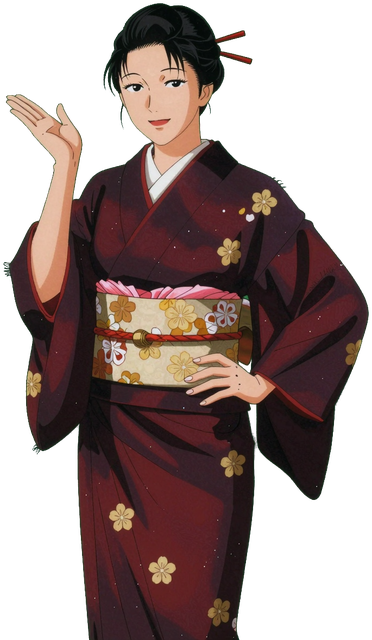
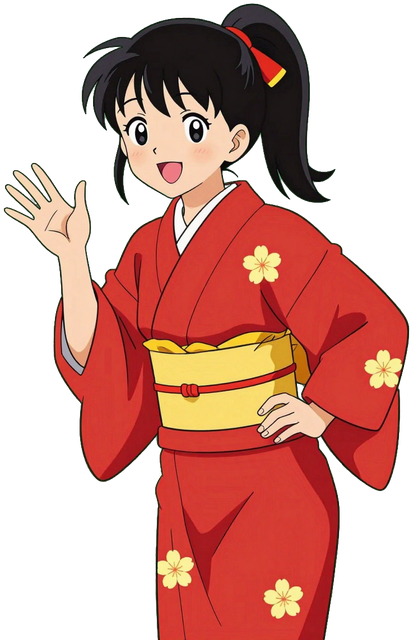
2.105.1 戦国思想録の版の名前を並・上・特上・極上に（NEW→新）、遊戯屋の人を可愛い看板娘に描き直し

diff --git a/card/index.html b/card/index.html
@@ -429,6 +429,7 @@ window.addEventListener('message',e=>{
  if(m.t==='wallet'&&typeof m.money==='number'&&Date.now()-walletAt>2000&&m.money!==SV.coin){SV.coin=m.money;if(!pk&&(screen==='title'||screen==='shop'))render();}
 });
 const RORD=['N','R','SR','SSR'];
+const RN={N:'並',R:'上',SR:'特上',SSR:'極上'}; // 版の表示名(中の名前は N/R/SR/SSR のまま)
 const DECK_SIZE=36,MAX_COPY=3,SAVE_KEY=EMBED?'sengoku_card_embed_v1':'sengoku_card_v1';
 let SV={deck:{},coin:0,pt:0,prints:{},lastLogin:'',starters:{}};
 let myDeck={},editFilter='all',editAll=false,editMsg='';
@@ -995,7 +996,7 @@ function render(){
 function sparks(n,col){let h='';for(let i=0;i<n;i++)h+=`<i class="sp" style="left:${Math.random()*100}%;top:${Math.random()*100}%;animation-delay:${(Math.random()*1.2).toFixed(2)}s;background:${col}"></i>`;return h;}
 function cardFace(c,r,isNew,auto){
  const col=IDEO[c.i].c;
- return `<div class="cf r-${r} t-${c.t}" style="--c:${col}"><div class="cfa"><span>${IDEO[c.i].n}</span>${artTag(c,r)}</div><div class="cft"><span class="cfc">${c.c}</span><b>${c.n}</b></div><div class="cfi">${TL[c.t]}${c.t==='u'?'  兵力'+c.p:''}</div><div class="cfd">${desc(c)}</div><span class="cfr rt-${r}">${r}</span>${isNew?'<span class="cfn">NEW</span>':''}${auto?`<span class="cfn" style="background:#6b6b6b">3枚所持→分解 ${GACHA.pt}+${auto}</span>`:''}<div class="foil"></div></div>`;
+ return `<div class="cf r-${r} t-${c.t}" style="--c:${col}"><div class="cfa"><span>${IDEO[c.i].n}</span>${artTag(c,r)}</div><div class="cft"><span class="cfc">${c.c}</span><b>${c.n}</b></div><div class="cfi">${TL[c.t]}${c.t==='u'?'  兵力'+c.p:''}</div><div class="cfd">${desc(c)}</div><span class="cfr rt-${r}">${RN[r]}</span>${isNew?'<span class="cfn">新</span>':''}${auto?`<span class="cfn" style="background:#6b6b6b">3枚所持→分解 ${GACHA.pt}+${auto}</span>`:''}<div class="foil"></div></div>`;
 }
 const stkT=t=>`translateY(${(t*16).toFixed(1)}px) scale(${(1-t*0.03).toFixed(3)})`;
 const sumCards=p=>p.all||p.cards;
@@ -1035,7 +1036,7 @@ function packHTML(){
  }else{
   const sc=sumCards(p);inner=`<div class="pk-title">開封結果</div><div class="sumgrid" ${sc.length>5?'style="max-width:540px"':''}>${sc.map((x,k)=>`<div class="smw" data-a="bigcard" data-id="${k}"><div class="smi">${cardFace(x.c,x.r,x.isNew,x.auto)}</div></div>`).join('')}</div><div class="pk-hint" style="margin:0 0 12px">札を押すと、大きな絵が見られます</div><div class="acts" style="justify-content:center"><button data-a="again" ${SV.coin>=p.pack.cost*(p.n||1)?'':'disabled'}>${(p.n||1)>1?'もう'+p.n+'連':'もう1包み'}(${p.pack.cost*(p.n||1)}${GACHA.coin})</button><button data-a="packEnd">閉じる</button></div>`;
  }
- const bl=p.stage==='summary'?sumCards(p):p.cards;if((p.stage==='summary'||p.stage==='pksum')&&p.big!=null&&bl[p.big]){const x=bl[p.big];inner+=`<div class="bigov" style="--c:${IDEO[x.c.i].c}" data-a="bigClose"><img src="${printImg(x.c,x.r)}" onerror="imgFb(this,'${baseImg(x.c)}')" alt=""><div class="bn">【${IDEO[x.c.i].n}】${x.c.n} <span class="rt-${x.r}">${x.r}</span></div><div class="bh">押すと閉じる</div></div>`;}
+ const bl=p.stage==='summary'?sumCards(p):p.cards;if((p.stage==='summary'||p.stage==='pksum')&&p.big!=null&&bl[p.big]){const x=bl[p.big];inner+=`<div class="bigov" style="--c:${IDEO[x.c.i].c}" data-a="bigClose"><img src="${printImg(x.c,x.r)}" onerror="imgFb(this,'${baseImg(x.c)}')" alt=""><div class="bn">【${IDEO[x.c.i].n}】${x.c.n} <span class="rt-${x.r}">${RN[x.r]}</span></div><div class="bh">押すと閉じる</div></div>`;}
  return `<div class="packov"><div class="pkin">${inner}</div></div>`;
 }
 let drag=null,sdrag=null;
@@ -1069,7 +1070,7 @@ function arriveFx(){
  const st=document.getElementById('stage');if(!st)return;
  sfxRare(x.r);
  if(x.r==='SR'||x.r==='SSR'){
-  st.insertAdjacentHTML('beforeend',`<div class="fx fx-${x.r}">${sparks(x.r==='SSR'?28:14,x.r==='SSR'?'#fff':'#ffe27a')}<div class="rtext">${x.r}!</div></div>`);
+  st.insertAdjacentHTML('beforeend',`<div class="fx fx-${x.r}">${sparks(x.r==='SSR'?28:14,x.r==='SSR'?'#fff':'#ffe27a')}<div class="rtext">${RN[x.r]}!</div></div>`);
   if(x.r==='SSR'){st.insertAdjacentHTML('beforeend','<div class="flash"></div>');try{navigator.vibrate&&navigator.vibrate([60,40,120]);}catch(e){}}
  }
 }
@@ -1081,7 +1082,7 @@ function printRows(mode){
   const n=printCount(c,r),k=printKey(c,r),col=IDEO[c.i].c,m=maxDismantle(c,r);let ctl='';
   if(mode==='coll'){const sel=Math.min(disSel[k]||0,m);ctl=m>0?`<div class="ctr"><button data-a="dsel" data-id="${k}~-1">−</button><span>${sel}</span><button data-a="dsel" data-id="${k}~1">＋</button><button data-a="dis" data-id="${k}" ${sel?'':'disabled'}>分解<br>+${sel*GACHA.dismantle[r]}</button></div>`:'';}
   else{const cost=GACHA.exchange[r];ctl=`<button data-a="trade" data-id="${k}" ${SV.pt>=cost&&n<MAX_COPY?'':'disabled'}>${cost}${GACHA.pt}<br>交換</button>`;}
-  return `<div class="er ${n?'':'unown'}" style="--c:${col};cursor:pointer" data-a="shopbig" data-id="${k}"><div class="th" style="--c:${col}"><span>${IDEO[c.i].n}</span><img src="${printImg(c,r)}" onerror="imgFb(this,'${baseImg(c)}')" alt=""></div><div class="tx"><b>${c.n}</b> <span class="rt rt-${r}">${r}</span> <span style="color:${col}">${IDEO[c.i].n}</span> ${TL[c.t]}<br><span class="dim">所持 ${n}${mode==='coll'&&n?` ・分解可 ${m}`:''}</span></div>${ctl}</div>`;
+  return `<div class="er ${n?'':'unown'}" style="--c:${col};cursor:pointer" data-a="shopbig" data-id="${k}"><div class="th" style="--c:${col}"><span>${IDEO[c.i].n}</span><img src="${printImg(c,r)}" onerror="imgFb(this,'${baseImg(c)}')" alt=""></div><div class="tx"><b>${c.n}</b> <span class="rt rt-${r}">${RN[r]}</span> <span style="color:${col}">${IDEO[c.i].n}</span> ${TL[c.t]}<br><span class="dim">所持 ${n}${mode==='coll'&&n?` ・分解可 ${m}`:''}</span></div>${ctl}</div>`;
  }).join('');
 }
 function shopHTML(){
@@ -1092,9 +1093,9 @@ function shopHTML(){
   body=STARTERS.filter(st=>!SV.starters[st.id]).map(st=>{const got=false;return `<div class="pcard" style="--c:#c0392b"><div class="pcl"><b>${st.name}</b><div class="dim" style="font-size:12px">${st.sub}<br>12種×3枚=36枚・無料(1回のみ)</div></div><button data-a="starter" data-id="${st.id}" ${got?'disabled':''}>${got?'受取済':'受け取る'}</button></div>`;}).join('')+(packs.length?packs.map(p=>{let tot=0,have=0;for(const c of CARDS.filter(c=>c.series===p.id))for(const r of(c.pr||[])){tot++;if(printCount(c,r)>0)have++;}
    return `<div class="pcard" style="--c:${p.color}"><div class="pcl"><b>${p.name}</b><div class="dim" style="font-size:12px">${p.era} ・ 収集 ${have}/${tot}</div></div><button data-a="buy" data-id="${p.id}" ${SV.coin>=p.cost?'':'disabled'}>${p.cost}${GACHA.coin}<br>開封</button><button data-a="buy10" data-id="${p.id}" ${SV.coin>=p.cost*10?'':'disabled'} style="margin-left:6px">${p.cost*10}${GACHA.coin}<br>10連</button></div>`;}).join(''):'<div class="dim" style="margin:14px 0">時代ごとの包みは準備中です</div>')
   +(DEMO?`<div class="pcard" style="--c:#888"><div class="pcl"><b>演出試し</b><div class="dim" style="font-size:12px">無料・保存されません</div></div><button data-a="buy" data-id="test">開封</button></div>`:'')
-  +`<div class="dim" style="font-size:12px;line-height:1.6;margin-top:8px">包みは時代ごとにあります。1包み${GACHA.cards}枚・最後の1枚は${GACHA.guarantee}以上確定<br>排出率: ${RORD.map(r=>`${r} ${GACHA.rates[r]}%`).join(' / ')}<br>${GACHA.coin}は対戦(勝利+${GACHA.reward.win}・敗北+${GACHA.reward.lose})と参上(+${GACHA.reward.login})で入手</div>`;
+  +`<div class="dim" style="font-size:12px;line-height:1.6;margin-top:8px">包みは時代ごとにあります。1包み${GACHA.cards}枚・最後の1枚は${RN[GACHA.guarantee]}以上確定<br>出る割合: ${RORD.map(r=>`${RN[r]} ${GACHA.rates[r]}%`).join(' / ')}<br>${GACHA.coin}は対戦(勝利+${GACHA.reward.win}・敗北+${GACHA.reward.lose})と参上(+${GACHA.reward.login})で入手</div>`;
  }else{
-  body=`<div class="dim" style="font-size:12px;margin:4px 0">${shopTab==='coll'?'同じ札は3枚まで持てて、超えた分は自動で分解して軍功になります。ここでは3枚以下の札も分解できます(各版1枚と陣立て使用分は残ります)':'軍功で好きな版と交換できます'}</div><div>${['all',...Object.keys(IDEO)].map(k=>`<span class="sc ${collFilter===k?'on':''}" data-a="cf" data-id="${k}">${k==='all'?'全思想':IDEO[k].n}</span>`).join('')}</div><div>${['all',...RORD].map(k=>`<span class="sc ${collRar===k?'on':''}" data-a="cr" data-id="${k}">${k==='all'?'全部':k}</span>`).join('')}</div>`+printRows(shopTab);
+  body=`<div class="dim" style="font-size:12px;margin:4px 0">${shopTab==='coll'?'同じ札は3枚まで持てて、超えた分は自動で分解して軍功になります。ここでは3枚以下の札も分解できます(各版1枚と陣立て使用分は残ります)':'軍功で好きな版と交換できます'}</div><div>${['all',...Object.keys(IDEO)].map(k=>`<span class="sc ${collFilter===k?'on':''}" data-a="cf" data-id="${k}">${k==='all'?'全思想':IDEO[k].n}</span>`).join('')}</div><div>${['all',...RORD].map(k=>`<span class="sc ${collRar===k?'on':''}" data-a="cr" data-id="${k}">${k==='all'?'全部':RN[k]}</span>`).join('')}</div>`+printRows(shopTab);
  }
  return `<div class="ver">v${VERSION}<button data-a="update">更新</button></div><div style="padding-top:40px">
  <div class="ehead"><b style="color:var(--gold)">札屋</b> <span class="coinb">${GACHA.coin} ${SV.coin}</span> <span class="coinb">${GACHA.pt} ${SV.pt}</span></div>
@@ -1105,7 +1106,7 @@ function shopHTML(){
 function shopBigHTML(){
  if(!shopBig)return '';const [cid,r]=shopBig.split('|'),c=cardById(cid);if(!c)return '';
  const n=printCount(c,r);
- return `<div class="bigov" style="--c:${IDEO[c.i].c}" data-a="shopbigClose"><img src="${printImg(c,r)}" onerror="imgFb(this,'${baseImg(c)}')" style="${n?'':'filter:brightness(.25) grayscale(.5)'}" alt=""><div class="bn">【${IDEO[c.i].n}】${c.n} <span class="rt-${r}">${r}</span></div><div class="bh">${n?`所持 ${n}枚`:'未所持'}　・　押すと閉じる</div></div>`;
+ return `<div class="bigov" style="--c:${IDEO[c.i].c}" data-a="shopbigClose"><img src="${printImg(c,r)}" onerror="imgFb(this,'${baseImg(c)}')" style="${n?'':'filter:brightness(.25) grayscale(.5)'}" alt=""><div class="bn">【${IDEO[c.i].n}】${c.n} <span class="rt-${r}">${RN[r]}</span></div><div class="bh">${n?`所持 ${n}枚`:'未所持'}　・　押すと閉じる</div></div>`;
 }
 const toastHTML=()=>`<div class="ov"><div class="mb" style="text-align:center">${loginMsg}<button data-a="toastClose">OK</button></div></div>`;
 
@@ -1149,8 +1150,8 @@ async function onClick(a,id){
   else if(a==='buy10'){const pack=gachaPacks().find(p=>p.id===id);const res=pack&&buyPack(pack,10);if(res){pk=mkPk(pack,res,10);shopMsg='';}else shopMsg=`${GACHA.coin}が足りません`;}
   else if(a==='buy'){const pack=id==='test'?TESTPACK:gachaPacks().find(p=>p.id===id);const res=pack&&(id==='test'?testPull():buyPack(pack));if(res){pk={pack,cards:res,stage:'tear',idx:0,flipped:false};shopMsg='';}else shopMsg=`${GACHA.coin}が足りません`;}
   else if(a==='dsel'){const i=id.lastIndexOf('~'),k=id.slice(0,i),dl=+id.slice(i+1),[c,r]=split(k);disSel[k]=Math.max(0,Math.min(maxDismantle(c,r),(disSel[k]||0)+dl));}
-  else if(a==='dis'){const [c,r]=split(id);const k=dismantle(c,r,disSel[id]||0);disSel[id]=0;shopMsg=k?`${c.n}(${r})を${k}枚分解して${GACHA.pt}+${k*GACHA.dismantle[r]}`:'';}
-  else if(a==='trade'){const [c,r]=split(id);const ex=exchange(c,r);shopMsg=ex==='max'?`${c.n}(${r})はすでに${MAX_COPY}枚持っています`:ex?`${c.n}(${r})と交換しました`:`${GACHA.pt}が足りません`;}
+  else if(a==='dis'){const [c,r]=split(id);const k=dismantle(c,r,disSel[id]||0);disSel[id]=0;shopMsg=k?`${c.n}(${RN[r]})を${k}枚分解して${GACHA.pt}+${k*GACHA.dismantle[r]}`:'';}
+  else if(a==='trade'){const [c,r]=split(id);const ex=exchange(c,r);shopMsg=ex==='max'?`${c.n}(${RN[r]})はすでに${MAX_COPY}枚持っています`:ex?`${c.n}(${RN[r]})と交換しました`:`${GACHA.pt}が足りません`;}
   render();return;
  }
  if(screen==='edit'){

diff --git a/js/main_town.js b/js/main_town.js
@@ -41,7 +41,7 @@ function townStage(P, hs) {
   if (townTab === 'soncho' && h.soncho) return ['', 'soncho.jpg', `<img class="who" src="${TA}soncho_p.png">` + say(h.soncho.me ? '村の衆' : `村長 ${h.soncho.head}`, h.soncho.me ? '村長様、今日もよろしくお願いいたします' : me.nomin && h.soncho.mine ? 'おう、今日も精を出してくれよ。田んぼは待ってくれんでな' : '見ねえ顔だな。働き手ならいつでも歓迎するぞ')]; // 2.56.1 村長
   if (townTab === 'mise') return ['', 'shop.jpg', `<img class="who" src="${TA}merchant_p.png">` + say('店の番頭', me.shoka && me.shoka.own ? '旦那様、本日も商いに励みます' : '自分の店を持つのは、商人の夢でございます')]; // 2.56.0 自分の店
   if (townTab === 'minato') return ['', 'minato.jpg', say('湊の船問屋', '海の向こうとの商いなら、船と腕のいい船乗りが要りますぜ')]; // 2.55.0 湊
-  if (townTab === 'yugi') return ['', 'shop.jpg', `<img class="who" src="${TA}yugi_p.png">` + say('遊戯屋の女将', 'いらっしゃいませ。戦国思想録の札なら、包みを開けるのも手合わせも、ここでどうぞ')]; // 2.102.0 遊戯屋（2.105.0 女将の絵を新しく）
+  if (townTab === 'yugi') return ['', 'shop.jpg', `<img class="who" src="${TA}yugi_p.png">` + say('遊戯屋の看板娘', 'いらっしゃいませー！戦国思想録の札、包みを開けるのも手合わせも、ここでどうぞ♪')]; // 2.102.0 遊戯屋（2.105.1 可愛い看板娘の絵に）
   if (townTab === 'gamble') return ['', '../gamble/den.jpg', `<img class="who" src="${TA}boss4.png">` + say('賭場の胴元', 'おう、遊んでいくかい。運も腕のうちだぜ')];
   if (townTab === 'talk') { // 2.13.1 茶屋：大きな町には娘がいる
     if (mu) return ['', 'chaya.jpg', `<img class="who" src="${TA}${mu.img}.png">` + say(`${mu.name}　<span class="heart">${'♥'.repeat(mu.wife ? 5 : mu.st)}${'♡'.repeat(mu.wife ? 0 : 4 - mu.st)}</span>`, (G.muSay && G.muSay[0] === mu.id && performance.now() - G.muSay[2] < 6000) ? G.muSay[1] : mu.line)];

diff --git a/js/config.js b/js/config.js
@@ -1,6 +1,6 @@
 // 基本設定（数値はここで調整）
 window.SGK = window.SGK || {};
-SGK.VERSION = '2.105.0'; // 上げるときは index.html の <meta name="sgk-ver"> も同じ値に
+SGK.VERSION = '2.105.1'; // 上げるときは index.html の <meta name="sgk-ver"> も同じ値に
 SGK.SAVE_SCHEMA = 7; // セーブデータの形式番号（形式を変えたら上げて、save.js の migrate に変換を書く）
 SGK.CFG = {
   MIN_PER_SEC: 7.5,     // 現実1秒 = ゲーム内7.5分（1日 = 192秒）。2.102.1 15→7.5（時間の進みを半分に）

diff --git a/index.html b/index.html
@@ -3,7 +3,7 @@
 <head>
 <meta charset="utf-8">
 <meta name="viewport" content="width=device-width,initial-scale=1,maximum-scale=1,user-scalable=no">
-<meta name="sgk-ver" content="2.105.0">
+<meta name="sgk-ver" content="2.105.1">
 <title>天下往来</title>
 <style>
   :root { --ink:#efe6cc; --panel:rgba(24,20,15,.88); --line:#8a7448; --gold:#f2c14e; }

diff --git a/tools/gen_yugi.py b/tools/gen_yugi.py
@@ -19,6 +19,13 @@ DESC = (KIMONO + "the proprietress of a sengoku period card game parlor, cool be
         "black hair in a neat updo with one simple red hairpin, deep crimson and black kimono with a small gold plum blossom pattern, a dark purple haori draped over her shoulders, "
         "POSE: one hand on her hip and the other hand raised beside her face with the palm open in a welcoming gesture, empty hands, body turned slightly to the side, "
         "framed from the top of her head down to just below her knees")
+# 2.105.1 ユーザーの希望で可愛い感じの娘に（--cute）。リアル寄りを通すと大人びすぎるので、はじめからアニメ調で描く
+DESC_CUTE = ("a cute cheerful young japanese woman about 21 years old, an adult but youthful, the poster girl of a sengoku period card game parlor, "
+             "cute type: soft round face, big bright friendly eyes, small nose, rosy cheeks, a sweet happy open smile, "
+             "black hair in a high side ponytail tied with a red and gold cord, short bangs, "
+             "bright red kimono with a small yellow plum blossom pattern, a yellow obi, a tasuki sleeve cord, "
+             "POSE: leaning forward a little, one hand raised in a friendly wave and the other hand on her hip, empty hands, "
+             "framed from the top of her head down to just below her knees")
 
 
 def cut(raw):
@@ -33,16 +40,21 @@ def cut(raw):
 
 def main():
     a = sys.argv[1:]; n, base = 4, 2105
+    cute = "--cute" in a
+    if cute: a.remove("--cute")
     if "--seeds" in a: i = a.index("--seeds"); n = int(a[i + 1]); del a[i:i + 2]
     if "--base" in a: i = a.index("--base"); base = int(a[i + 1]); del a[i:i + 2]
     out = a[0]; os.makedirs(out, exist_ok=True)
     models = G.names(); rnd = random.Random(base)
     for _ in range(n):
-        seed = rnd.randrange(1, 2**31 - 1); stem = os.path.join(out, f"yugi_{seed}")
-        if not os.path.exists(stem + "_real.png"):
+        seed = rnd.randrange(1, 2**31 - 1); stem = os.path.join(out, f"yugi{'c' if cute else ''}_{seed}")
+        if cute and not os.path.exists(stem + "_raw.png"):
+            wf = G.workflow(DESC_CUTE + ". " + ANIME.replace("same pose, same clothes, same face shape and age, ", "").replace("plain pure white background", BGTXT), seed, *models, CW, CH)
+            with open(stem + "_raw.png", "xb") as f: f.write(G.run(wf))
+        if not cute and not os.path.exists(stem + "_real.png"):
             wf = G.workflow(DESC + REAL + ", " + BGTXT, seed, *models, CW, CH)
             with open(stem + "_real.png", "xb") as f: f.write(G.run(wf))
-        if not os.path.exists(stem + "_raw.png"):
+        if not cute and not os.path.exists(stem + "_raw.png"):
             data = img2img(Image.open(stem + "_real.png").convert("RGB"), DESC + ". " + ANIME.replace("plain pure white background", BGTXT), seed + 1, 0.65, models)
             with open(stem + "_raw.png", "xb") as f: f.write(data)
         if not os.path.exists(stem + ".png"):
